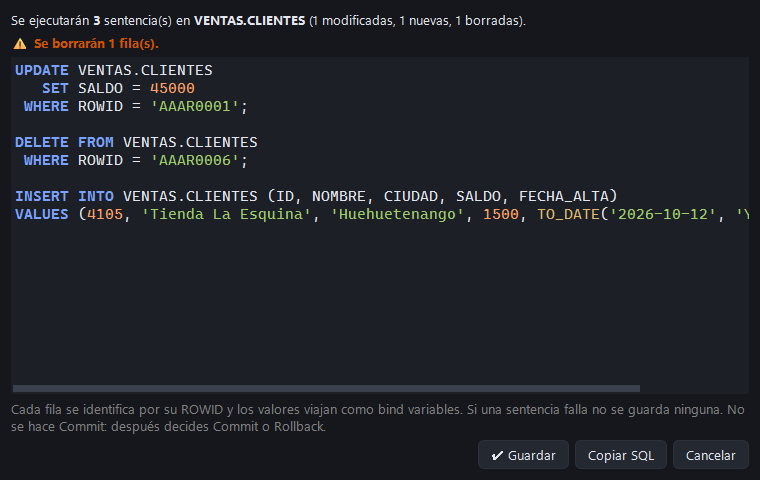
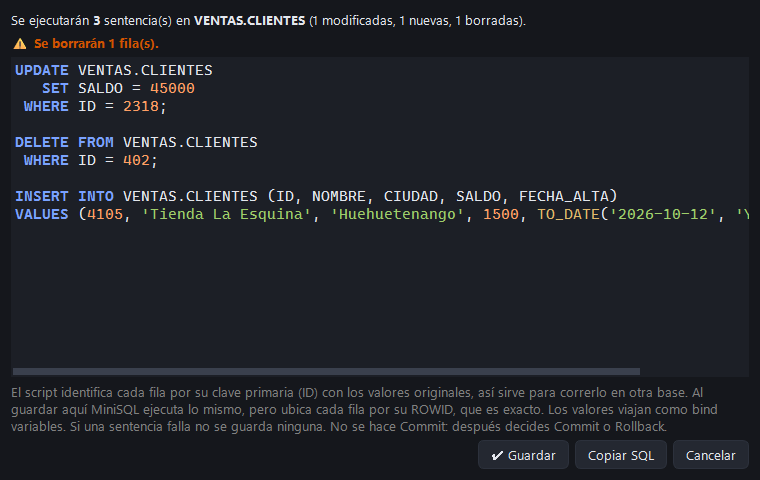
[CI] El script del guardado identifica las filas por clave primaria o única en vez de ROWID

Changed region(s): [[0.0, 0.75, 0.9684, 0.9062], [0.0908, 0.1875, 0.3026, 0.25], [0.0908, 0.3125, 0.3026, 0.3438]]

diff --git a/tests/test_grid.py b/tests/test_grid.py
@@ -6,7 +6,7 @@ import pytest
 from PySide6.QtCore import Qt
 from PySide6.QtWidgets import QDialog, QMessageBox
 
-from minisql.db.grid import ColumnInfo, apply_changes, parse_value, preview_sql, sql_literal
+from minisql.db.grid import ColumnInfo, apply_changes, fetch_key_columns, parse_value, preview_sql, sql_literal
 from minisql.sql.editable import editable_target, rowid_query
 from minisql.ui import result_panel as panel_module
 from minisql.ui import sheet as sheet_module
@@ -174,7 +174,7 @@ def test_edit_validate_save_and_cancel(app, editable_sheet, monkeypatch):
     panel.save()
     stmts, summary = shown[0]
     assert summary["borradas"] == 1 and len(stmts) == 3
-    assert stmts[0] == "UPDATE SCOTT.EMP\n   SET A = 12.5\n WHERE ROWID = 'ROW1';"
+    assert stmts[0] == "UPDATE SCOTT.EMP\n   SET A = 12.5\n WHERE A = 1;"        # por la clave (valor original)
     assert wait_until(app, lambda: "Guardado" in panel.state.text()), panel.state.text()
     dml = [s.strip().lower() for s in FakeCursor.executed]
     assert dml[0] == "savepoint minisql_grilla"
@@ -286,3 +286,55 @@ def test_commit_or_rollback_clears_the_pending_message(app, editable_sheet, monk
     assert wait_until(app, lambda: "pendiente de Commit" in panel.state.text())
     assert tab.rollback()
     assert "Rollback" in panel.state.text() and "pendiente" not in panel.state.text()
+
+
+# ---------------------------------------------------------------- el script del guardado, por clave
+
+class KeyCursor:
+    """Responde las consultas de fetch_key_columns: restricciones primero, índices únicos después."""
+
+    def __init__(self, constraints, indexes=()):
+        self.answers = [list(constraints), list(indexes)]
+
+    def execute(self, sql, **_kw):
+        self.current = self.answers.pop(0) if self.answers else []
+
+    def fetchall(self):
+        return self.current
+
+
+def test_key_columns_prefer_primary_then_not_null_unique():
+    assert fetch_key_columns(KeyCursor([("P", "PK", "ID", "N"), ("U", "UK", "CODIGO", "N")]), "S", "T") == \
+        ("P", ["ID"])
+    unique = [("U", "UK_LARGA", "A", "N"), ("U", "UK_LARGA", "B", "N"), ("U", "UK_CORTA", "CODIGO", "N")]
+    assert fetch_key_columns(KeyCursor(unique), "S", "T") == ("U", ["CODIGO"])     # la más corta
+    nullable = [("U", "UK", "CORREO", "Y")]                                        # con NULL no identifica
+    assert fetch_key_columns(KeyCursor(nullable), "S", "T") == (None, [])
+    index = [("U", "IX_U", "SERIE", "N"), ("U", "IX_U", "NUMERO", "N")]           # índice único, sin restricción
+    assert fetch_key_columns(KeyCursor([], index), "S", "T") == ("U", ["SERIE", "NUMERO"])
+    assert fetch_key_columns(KeyCursor([], []), "S", "T") == (None, [])
+
+
+def test_preview_uses_the_key_and_falls_back_to_rowid():
+    ops = [("update", "R1", {"NOMBRE": "x"}), ("delete", "R2"), ("delete", "R3")]
+    keys = {"R1": {"SERIE": "A", "NUMERO": 7}, "R2": {"SERIE": "B", "NUMERO": None}}
+    update, delete, no_key = preview_sql("S", "T", ops, keys)
+    assert update.endswith("WHERE SERIE = 'A'\n   AND NUMERO = 7;")
+    assert delete.endswith("WHERE SERIE = 'B'\n   AND NUMERO IS NULL;")
+    assert no_key.endswith("WHERE ROWID = 'R3';")
+
+
+def test_key_must_be_in_the_query_to_be_used(app, monkeypatch):
+    tab = ConnectionTab(make_session(FakeConn()), "T", "PROD")
+    sheet = tab.current_sheet()
+    sheet.editor.setPlainText("select b from emp")                       # sin A, que es la clave
+    sheet.run()
+    assert wait_until(app, lambda: sheet.results.target is not None)
+    panel = sheet.results
+    model = panel.model
+    assert model.key_columns == ["A"] and model.key_values() == {}
+    shown = []
+    monkeypatch.setattr(panel, "confirm_save", lambda stmts, summary: shown.append(stmts) or False)
+    assert model.setData(model.index(0, 1), "y")                         # B (A no es de la consulta)
+    panel.save()
+    assert "WHERE ROWID = 'ROW1'" in shown[0][0]                         # sin la clave: por ROWID

diff --git a/minisql/db/grid.py b/minisql/db/grid.py
@@ -214,17 +214,63 @@ def sql_literal(value):
     return str(value)
 
 
-def preview_sql(owner, table, ops):
-    """Las sentencias que hará apply_changes, con los valores a la vista, para confirmarlas antes de guardar."""
+def fetch_key_columns(cur, owner, table):
+    """Cómo identificar una fila sin el ROWID: ("P", [columnas]) la clave primaria; si no hay, ("U", [columnas]) la
+    clave o el índice único más corto con todas sus columnas NOT NULL (si no, dos filas con NULL serían iguales);
+    si no hay ninguno, (None, [])."""
+    cur.execute("""
+        select k.constraint_type, k.constraint_name, cc.column_name, t.nullable
+          from all_constraints k
+          join all_cons_columns cc on cc.owner = k.owner and cc.constraint_name = k.constraint_name
+                                  and cc.table_name = k.table_name
+          join all_tab_cols t on t.owner = cc.owner and t.table_name = cc.table_name and t.column_name = cc.column_name
+         where k.owner = :own and k.table_name = :tab and k.constraint_type in ('P', 'U') and k.status = 'ENABLED'
+         order by k.constraint_type, k.constraint_name, cc.position""", own=owner, tab=table)
+    keys = {}
+    for ctype, name, column, nullable in cur.fetchall():
+        keys.setdefault((ctype, name), []).append((column, nullable))
+    if not any(ctype == "P" for ctype, _ in keys):
+        cur.execute("""
+            select 'U', i.index_name, ic.column_name, t.nullable
+              from all_indexes i
+              join all_ind_columns ic on ic.index_owner = i.owner and ic.index_name = i.index_name
+              join all_tab_cols t on t.owner = i.table_owner and t.table_name = i.table_name
+                                 and t.column_name = ic.column_name
+             where i.table_owner = :own and i.table_name = :tab and i.uniqueness = 'UNIQUE'
+             order by i.index_name, ic.column_position""", own=owner, tab=table)
+        for ctype, name, column, nullable in cur.fetchall():
+            keys.setdefault((ctype, name), []).append((column, nullable))
+    primary = [cols for (ctype, _), cols in keys.items() if ctype == "P"]
+    if primary:
+        return "P", [c for c, _ in primary[0]]
+    unique = [cols for (ctype, _), cols in keys.items() if ctype == "U" and all(n == "N" for _, n in cols)]
+    if unique:
+        return "U", [c for c, _ in min(unique, key=len)]
+    return None, []
+
+
+def _where(rowid, keys):
+    """WHERE de una fila: por su clave (valores originales) si se conocen, o por el ROWID."""
+    key = (keys or {}).get(rowid)
+    if not key:
+        return f"ROWID = '{rowid}'"
+    return "\n   AND ".join(f"{q(c)} = {sql_literal(v)}" if v is not None else f"{q(c)} IS NULL"
+                           for c, v in key.items())
+
+
+def preview_sql(owner, table, ops, keys=None):
+    """Las sentencias que hará apply_changes, con los valores a la vista, para confirmarlas antes de guardar.
+    keys: {rowid: {columna clave: valor original}}: así el script identifica las filas por su clave (sirve para
+    correrlo en otra base) y no por el ROWID, que solo vale en esta."""
     target = f"{q(owner)}.{q(table)}"
     out = []
     for op in ops:
         if op[0] == "update":
             _, rowid, values = op
             sets = ",\n       ".join(f"{q(c)} = {sql_literal(v)}" for c, v in values.items())
-            out.append(f"UPDATE {target}\n   SET {sets}\n WHERE ROWID = '{rowid}';")
+            out.append(f"UPDATE {target}\n   SET {sets}\n WHERE {_where(rowid, keys)};")
         elif op[0] == "delete":
-            out.append(f"DELETE FROM {target}\n WHERE ROWID = '{op[1]}';")
+            out.append(f"DELETE FROM {target}\n WHERE {_where(op[1], keys)};")
         elif op[0] == "insert":
             values = op[1]
             cols = ", ".join(q(c) for c in values)

diff --git a/minisql/ui/result_panel.py b/minisql/ui/result_panel.py
@@ -24,7 +24,7 @@ from PySide6.QtWidgets import (
 
 from ..config import MAX_ROWS, PAGE_ROWS
 from ..db.catalog import resolve_object
-from ..db.grid import fetch_columns_info, preview_sql
+from ..db.grid import fetch_columns_info, fetch_key_columns, preview_sql
 from ..sql.editable import editable_target
 from .busy_overlay import BusyOverlay
 from .results import EditableResultModel, ResultModel, ResultView
@@ -270,7 +270,7 @@ class ResultPanel(QWidget):
             owner, name, otype = found
             if otype != "TABLE":
                 return None, f"{owner}.{name} es {otype.lower()}, no una tabla"
-            return (owner, name, fetch_columns_info(cur, owner, name)), None
+            return (owner, name, fetch_columns_info(cur, owner, name), fetch_key_columns(cur, owner, name)), None
 
         def ok(result):
             found, reason = result
@@ -279,7 +279,7 @@ class ResultPanel(QWidget):
             if not found:
                 self._set_state(f"🔒 Solo lectura: {reason}", MUTED_COLOR)
                 return
-            owner, name, columns = found
+            owner, name, columns, (model.key_kind, model.key_columns) = found
             model.set_columns([columns.get(target.source_of(h, columns) or "") for h in model.headers])
             if model.editable:
                 self.target = (owner, name)
@@ -481,7 +481,9 @@ class ResultPanel(QWidget):
             return
         summary = model.summary()
         owner, table = self.target
-        if not self.confirm_save(preview_sql(owner, table, ops), summary):
+        keys = model.key_values()
+        self.save_key = (model.key_kind, model.key_columns) if keys else (None, [])
+        if not self.confirm_save(preview_sql(owner, table, ops, keys), summary):
             return
         self.saving = True
         self.set_busy("Guardando…")
@@ -508,7 +510,8 @@ class ResultPanel(QWidget):
 
     def confirm_save(self, statements, summary):
         """Muestra las sentencias que se van a ejecutar y devuelve True si el usuario confirma."""
-        dialog = SavePreviewDialog(".".join(self.target), statements, summary, self)
+        dialog = SavePreviewDialog(".".join(self.target), statements, summary, self,
+                                   key=getattr(self, "save_key", (None, [])))
         return dialog.exec() == QDialog.Accepted
 
     def _transaction_ended(self, how):

diff --git a/minisql/ui/save_preview.py b/minisql/ui/save_preview.py
@@ -18,7 +18,9 @@ class SavePreviewDialog(QDialog):
     """target: "OWNER.TABLA"; statements: textos de db.grid.preview_sql;
     summary: dict de EditableResultModel.summary."""
 
-    def __init__(self, target, statements, summary, parent=None):
+    def __init__(self, target, statements, summary, parent=None, key=(None, [])):
+        """key: (tipo, columnas) con que el script identifica las filas: "P" clave primaria, "U" clave única,
+        None: el ROWID."""
         super().__init__(parent)
         self.setWindowTitle(f"Guardar cambios en {target}")
         self.resize(760, 480)
@@ -39,9 +41,17 @@ class SavePreviewDialog(QDialog):
         self.highlighter = SqlHighlighter(self.text.document(), dark=is_dark(self))
         layout.addWidget(self.text, 1)
 
-        note = QLabel("Cada fila se identifica por su ROWID y los valores viajan como bind variables. "
-                      "Si una sentencia falla no se guarda ninguna. No se hace Commit: después decides "
-                      "Commit o Rollback.")
+        kind, columns = key
+        if kind:
+            what = "clave primaria" if kind == "P" else "clave única"
+            ident = (f"El script identifica cada fila por su {what} ({', '.join(columns)}) con los valores "
+                     "originales, así sirve para correrlo en otra base. Al guardar aquí MiniSQL ejecuta lo mismo, "
+                     "pero ubica cada fila por su ROWID, que es exacto. ")
+        else:
+            ident = ("La tabla no tiene clave primaria ni única (o la consulta no trae sus columnas): cada fila "
+                     "se identifica por su ROWID. ")
+        note = QLabel(ident + "Los valores viajan como bind variables. Si una sentencia falla no se guarda "
+                      "ninguna. No se hace Commit: después decides Commit o Rollback.")
         note.setWordWrap(True)
         note.setStyleSheet("color: gray;")
         layout.addWidget(note)

diff --git a/minisql/ui/results.py b/minisql/ui/results.py
@@ -488,6 +488,22 @@ class EditableResultModel(ResultModel):
         deleted = sum(1 for r in self.all_rows if r.deleted)
         return {"modificadas": changed, "nuevas": new, "borradas": deleted}
 
+    key_kind, key_columns = None, []          # clave de la tabla (db.grid.fetch_key_columns), si se conoce
+
+    def key_values(self):
+        """{rowid: {columna clave: valor original}} para escribir el script por clave y no por ROWID. Vacío si la
+        tabla no tiene clave o la consulta no trae todas sus columnas."""
+        positions = {}
+        for key in self.key_columns:
+            i = next((i for i, c in enumerate(self.columns) if c is not None and c.name == key), None)
+            if i is None:
+                return {}
+            positions[key] = i
+        if not positions:
+            return {}
+        return {row.rowid: {k: row.original[i] for k, i in positions.items()}
+                for row in self.all_rows if not row.new and row.rowid}
+
     def pending_ops(self):
         """Operaciones para guardar (ver db.grid.apply_changes). Revisa antes lo que Oracle rechazaría
         seguro (obligatorias vacías en filas nuevas) y lanza ValueError con todos los problemas."""

diff --git a/docs/generar_capturas.py b/docs/generar_capturas.py
@@ -70,6 +70,8 @@ class DemoCursor(FakeCursor):
 
     def fetchall(self):
         q = self.sql
+        if "from all_constraints k" in q:        # CLIENTES tiene clave primaria ID
+            return [("P", "PK_CLIENTES", "ID", "N")]
         if "from all_tab_cols" in q:             # definición de CLIENTES para la grilla editable
             return [("ID", "NUMBER", 22, 10, 0, 0, None, "N", "NO", "NO", None),
                     ("NOMBRE", "VARCHAR2", 120, None, None, 120, "C", "N", "NO", "NO", None),
@@ -158,8 +160,8 @@ def main():
 
     # 1c. Confirmación al guardar: las sentencias que se van a ejecutar
     owner, table = sheet.results.target
-    dialog = SavePreviewDialog(f"{owner}.{table}", preview_sql(owner, table, model.pending_ops()),
-                               model.summary(), w)
+    dialog = SavePreviewDialog(f"{owner}.{table}", preview_sql(owner, table, model.pending_ops(), model.key_values()),
+                               model.summary(), w, key=(model.key_kind, model.key_columns))
     dialog.show()
     pump(app, 10)
     save(dialog, "guardar.png")

diff --git a/tests/support.py b/tests/support.py
@@ -131,6 +131,8 @@ class FakeCursor:
             kinds = {"EMP": "TABLE", "DEPT": "TABLE", "BIG_TABLE": "TABLE", "S_EMP": "SYNONYM", "PKG": "PACKAGE",
                      "SEQ": "SEQUENCE"}
             return [(kinds[n],)] if n in kinds and self.kw["own"] == "SCOTT" else []
+        if "from all_constraints k" in q and self.kw.get("tab") in ("EMP", "BIG_TABLE"):
+            return [("P", "PK_EMP", "A", "N")]                          # la grilla: A es la clave primaria
         if q.lstrip().startswith("select cc.column_name from all_cons_columns"):
             return [("ID",)]
         if "all_col_comments" in q:

diff --git a/docs/contexto/grilla.md b/docs/contexto/grilla.md
@@ -24,8 +24,12 @@ Pruebas: `tests/test_grid.py`, `test_results.py`. Captura: `docs/img/edicion.png
 - `apply_changes(cur, owner, table, ops)`: `SAVEPOINT minisql_grilla`; UPDATE/DELETE
   `WHERE ROWID = CHARTOROWID(:rid)` con `_expect_one` (la fila debe existir); INSERT con
   `RETURNING ROWIDTOCHAR(ROWID) INTO :rid`. Ante error: `ROLLBACK TO SAVEPOINT` y se relanza.
-- `preview_sql(owner, table, ops)` / `sql_literal(v)`: las mismas sentencias con los valores como literales,
-  **solo para mostrar** (la ejecución sigue con binds). Pruebas: monkeypatch de `panel.confirm_save`.
+- `preview_sql(owner, table, ops, keys)` / `sql_literal(v)`: las mismas sentencias con los valores como literales,
+  **solo para mostrar** (la ejecución sigue con binds y por ROWID). Pruebas: monkeypatch de `panel.confirm_save`.
+- El script identifica las filas por clave, no por ROWID: `fetch_key_columns` (clave primaria; si no, la clave o
+  índice único más corto con columnas NOT NULL; si no, ROWID) se pide en `_load_columns` → `model.key_kind/
+  key_columns`; `model.key_values()` da los valores **originales** de la clave por rowid (vacío si la consulta no
+  trae todas las columnas de la clave → ROWID). La ventana dice qué identificación usa.
 
 ## Paginación
 - `OracleSession.execute` trae solo `PAGE_ROWS` (200, config.py). Si llenó la página, `res["more"]` y
